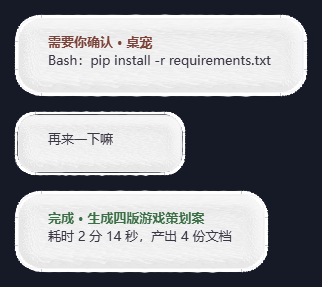
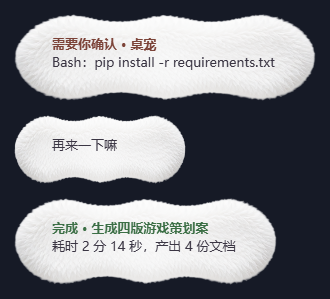
feat(bubble): use the matted fur material as the shape itself
- drop the rounded-rect panel and the 9-slice fur border: the bubble is now the
  cut-out fur image stretched to size, so its own fuzzy outline is the border
- readability comes from a radial white wash composited with SourceAtop, which only
  lands on the fur instead of painting a white rectangle over the corners
- regenerate the panel in a wide aspect so the strands are not squashed

diff --git a/ui/bubble.py b/ui/bubble.py
@@ -5,39 +5,32 @@ import math
 
 from pathlib import Path
 
-from PySide6.QtCore import QPoint, QPropertyAnimation, QRect, QRectF, QTimer, Qt
+from PySide6.QtCore import (QPoint, QPointF, QPropertyAnimation, QRect, QRectF,
+                            QTimer, Qt)
 from PySide6.QtGui import (QColor, QFont, QFontMetrics, QPainter, QPixmap,
-                           QTextCharFormat, QTextCursor, QTextDocument, QTextOption)
+                           QRadialGradient, QTextCharFormat, QTextCursor,
+                           QTextDocument, QTextOption)
 from PySide6.QtWidgets import QApplication, QWidget
 
 ASSETS = Path(__file__).resolve().parent.parent / "assets" / "bubble"
-PAD_X = 34          # 留出毛绒边框
-PAD_Y = 24
+PAD_X = 38          # 留出毛绒边框
+PAD_Y = 26
 TAIL = 0            # 毛绒面板没有尖角，气泡直接浮在头顶
 MAX_W = 320
 MIN_W = 172
 TEXT = "#3B3644"    # 白底上的深色字
 
 _FUZZ: QPixmap | None = None
-_EDGE: QPixmap | None = None
-
-
 def _fuzz() -> QPixmap:
-    """毛绒纹理（Krea2 生成，tools/make_bubble_art.py）。"""
+    """白色毛绒面板，已抠图（Krea2 出图 + birefnet 抠图，见 tools/make_bubble_art.py）。
+
+    直接整张铺进气泡，轮廓就是它自己的毛边——不裁圆角、不描边。
+    """
     global _FUZZ
     if _FUZZ is None:
         p = ASSETS / "fluff.png"
         _FUZZ = QPixmap(str(p)) if p.exists() else QPixmap()
     return _FUZZ
-
-
-def _edge() -> QPixmap:
-    """只保留外圈的绒边，用来做不截断的毛边轮廓。"""
-    global _EDGE
-    if _EDGE is None:
-        p = ASSETS / "fluff_edge.png"
-        _EDGE = QPixmap(str(p)) if p.exists() else QPixmap()
-    return _EDGE
 
 
 class Bubble(QWidget):
@@ -155,32 +148,34 @@ class Bubble(QWidget):
         p.setRenderHint(QPainter.SmoothPixmapTransform, True)
         p.fillRect(self.rect(), Qt.transparent)
 
-        inset = 4.0
-        body = QRectF(inset, inset, self.width() - inset * 2, self.height() - inset * 2)
-        radius = min(16.0, body.height() / 2.0)
+        # 先合成到离屏：毛绒素材原样铺满，轮廓就是它自己的毛边
+        buf = QPixmap(self.size())
+        buf.fill(Qt.transparent)
+        bp = QPainter(buf)
+        bp.setRenderHint(QPainter.Antialiasing, True)
+        bp.setRenderHint(QPainter.SmoothPixmapTransform, True)
 
-        # 1) 白色实底，略微内缩，让外圈留给绒毛
-        p.setPen(Qt.NoPen)
-        p.setBrush(QColor(252, 251, 252, 250))
-        p.drawRoundedRect(body, radius, radius)
-
-        # 2) 一圈很淡的纹理，增加棉感（不会盖住文字）
         pm = _fuzz()
-        if not pm.isNull():
-            p.setOpacity(0.22)
-            self._draw_nine(p, pm, body, dst=22.0)
-            p.setOpacity(1.0)
+        if pm.isNull():
+            bp.setPen(Qt.NoPen)
+            bp.setBrush(QColor(250, 250, 252, 250))
+            bp.drawRoundedRect(QRectF(0, 0, self.width(), self.height()), 16, 16)
+        else:
+            bp.drawPixmap(QRectF(0, 0, self.width(), self.height()), pm, QRectF(pm.rect()))
 
-        # 3) 带羽化的绒边，盖在轮廓上——这样边缘是毛的，不是一刀切
-        edge = _edge()
-        if not edge.isNull():
-            outer = QRectF(0, 0, self.width(), self.height())
-            self._draw_nine(p, edge, outer, dst=30.0)
+        # 中心柔光只落在毛上（SourceAtop 保留原有 alpha），不会在四角糊出一个白框
+        grad = QRadialGradient(QPointF(self.width() / 2, self.height() / 2),
+                               max(self.width(), self.height()) * 0.62)
+        grad.setColorAt(0.0, QColor(255, 255, 255, 210))
+        grad.setColorAt(0.55, QColor(255, 255, 255, 155))
+        grad.setColorAt(1.0, QColor(255, 255, 255, 0))
+        bp.setCompositionMode(QPainter.CompositionMode_SourceAtop)
+        bp.setPen(Qt.NoPen)
+        bp.setBrush(grad)
+        bp.drawRect(buf.rect())
+        bp.end()
 
-        # 4) 极淡描边压住内圈，避免白底和绒边之间有条缝
-        p.setBrush(Qt.NoBrush)
-        p.setPen(QColor(214, 210, 220, 90))
-        p.drawRoundedRect(body.adjusted(1, 1, -1, -1), radius - 1, radius - 1)
+        p.drawPixmap(0, 0, buf)
 
         y = PAD_Y - 4
         if self._title:
@@ -194,21 +189,3 @@ class Bubble(QWidget):
         p.translate(PAD_X, y)
         self._doc.drawContents(p)
 
-    @staticmethod
-    def _draw_nine(p: QPainter, pm: QPixmap, rect: QRectF, dst: float = 22.0) -> None:
-        """九宫格：四角保留绒毛细节，边和中间拉伸。"""
-        sw, sh = pm.width(), pm.height()
-        src = min(sw, sh) * 0.30
-        d = min(dst, rect.width() / 3.0, rect.height() / 3.0)
-        sx = (0.0, src, sw - src, float(sw))
-        sy = (0.0, src, sh - src, float(sh))
-        dx = (rect.left(), rect.left() + d, rect.right() - d, rect.right())
-        dy = (rect.top(), rect.top() + d, rect.bottom() - d, rect.bottom())
-        for i in range(3):
-            for j in range(3):
-                w = dx[i + 1] - dx[i]
-                h = dy[j + 1] - dy[j]
-                if w <= 0 or h <= 0:
-                    continue
-                p.drawPixmap(QRectF(dx[i], dy[j], w, h),
-                             pm, QRectF(sx[i], sy[j], sx[i + 1] - sx[i], sy[j + 1] - sy[j]))

diff --git a/tools/make_bubble_art.py b/tools/make_bubble_art.py
@@ -18,8 +18,8 @@ from tools.make_skin import (  # noqa: E402
 ROOT = Path(__file__).resolve().parent.parent
 OUT = ROOT / "assets" / "bubble" / "fluff.png"
 
-PROMPT = ("一个纯白色的毛绒质感圆角矩形面板，四角圆润，边缘蓬松柔软像绒毛，表面是细密的白色绒毛，"
-          "正面平视，居中放置，浅灰色纯色背景，没有文字，没有阴影，没有描边")
+PROMPT = ("一个横向的纯白色毛绒长条面板，横向构图，四角圆润，边缘蓬松柔软像绒毛，轮廓是不规则的绒毛，"
+          "表面是细密的白色短绒，正面平视，居中放置，浅灰色纯色背景，没有文字，没有阴影，没有描边")
 NEG = "文字, 字母, 水印, 黑色边框, 硬边, 金属, 反光, 多个物体, 阴影"
 
 
@@ -32,7 +32,7 @@ def t2i(seed: int) -> dict:
                          "type": "krea2", "device": "default"}},
         "3": {"class_type": "VAELoader", "inputs": {"vae_name": "qwen_image_vae.safetensors"}},
         "4": {"class_type": "EmptyLatentImage",
-              "inputs": {"width": 1024, "height": 1024, "batch_size": 1}},
+              "inputs": {"width": 1280, "height": 768, "batch_size": 1}},
         "5": {"class_type": "CLIPTextEncode", "inputs": {"clip": ["2", 0], "text": PROMPT}},
         "6": {"class_type": "CLIPTextEncode", "inputs": {"clip": ["2", 0], "text": NEG}},
         "7": {"class_type": "KSampler", "inputs": {

diff --git a/README.md b/README.md
@@ -179,9 +179,11 @@ python tools/make_skin.py --name moth-girl --image D:/art/base.png ^
     --box 822,345,1064,426 --display "雪蛾" --feather 9
 ```
 
-The bubble background is a white fluffy panel generated with Krea2 (`tools/make_bubble_art.py`,
-then matted with birefnet), stretched with 9-slice, with a separate feathered fur-edge layer on top —
-the outline is fuzzy instead of a clean vector cut.
+The bubble background **is** the matted fur material (Krea2 render + birefnet matte, see
+`tools/make_bubble_art.py`): the whole image is stretched into the bubble and its own fuzzy outline
+is the border — no rounded-rect crop, no stroke.
+For legibility a radial white wash is composited with `CompositionMode_SourceAtop`, so it only lands on
+the fur and never leaves a white rectangle around the corners.
 
 **Font and lines are editable:**
 

diff --git a/README.zh-CN.md b/README.zh-CN.md
@@ -179,8 +179,9 @@ python tools/make_skin.py --name moth-girl --image D:/art/base.png ^
     --box 822,345,1064,426 --display "雪蛾" --feather 9
 ```
 
-气泡背景是 Krea2 生成的白色毛绒面板（`tools/make_bubble_art.py` 出图 + birefnet 抠图），运行时用九宫格拉伸，
-四角保留绒毛、边缘用单独的羽化绒边层盖住，所以轮廓是毛的而不是一刀切。
+气泡背景就是**抠好背景的毛绒素材本身**（Krea2 出图 + birefnet 抠图，见 `tools/make_bubble_art.py`）：
+整张铺进气泡，轮廓直接用它自己的毛边——不裁圆角、不描边、不切边框。
+为了文字可读，只在中部叠一层径向柔光，用 `CompositionMode_SourceAtop` 合成，光只会落在毛上，四角不会糊出白框。
 
 **字体和台词都能改**：
 
